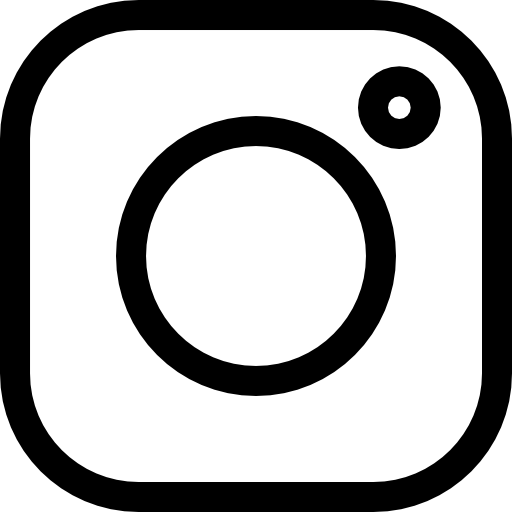
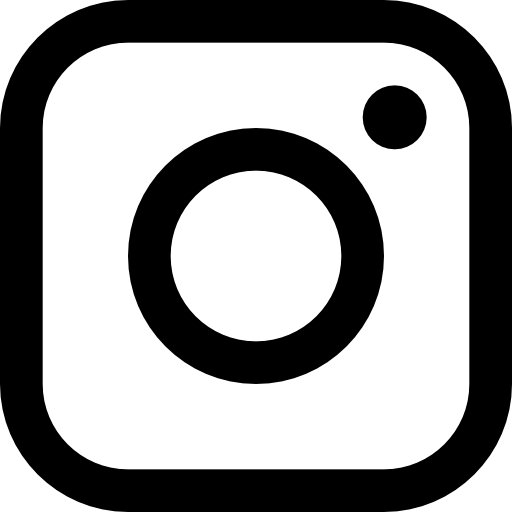
Add files via upload

diff --git a/flutter_service_worker.js b/flutter_service_worker.js
@@ -3,17 +3,20 @@ const MANIFEST = 'flutter-app-manifest';
 const TEMP = 'flutter-temp-cache';
 const CACHE_NAME = 'flutter-app-cache';
 
-const RESOURCES = {"assets/AssetManifest.bin": "bc772093c6b49f6e0c80ae8b026bf692",
-"assets/AssetManifest.json": "4ef12a400a00e43d76b79b4d8120d74c",
+const RESOURCES = {"assets/AssetManifest.bin": "cf82ed2b813d8f7bf751307507c87cf7",
+"assets/AssetManifest.json": "54e44549c76386c4be42fdac1b8d98d2",
 "assets/assets/images/1.jpeg": "a58a61c73e51383e560b53bb2de3e70d",
 "assets/assets/images/2.jpeg": "d68cf2eb89f2316c28e8cb639acaaf06",
 "assets/assets/images/3.jpeg": "5e875b70f6ffbe118521fff00eac0cf0",
 "assets/assets/images/4.jpeg": "7ef1965c57d0cd700bee8b5ef32e3b50",
 "assets/assets/images/5.jpeg": "02350f02172bca3519ea1ec89f6d6dec",
+"assets/assets/images/bookly.png": "0804d19a148e4d17b9dc7a466033ac57",
 "assets/assets/images/github.png": "84597e4c4151e7ea8339f3c1568e82e4",
 "assets/assets/images/img1.jpeg": "5a420533f3013657501ce39efcc37802",
-"assets/assets/images/instagram.png": "1be561f0c670fe46c77e96faf94262b8",
+"assets/assets/images/instagram.png": "1ab712a197bc22a18ec4abc26fc20df3",
+"assets/assets/images/instagramproject.png": "15f73d65d7317f009ba04db4bb96f411",
 "assets/assets/images/linkedin.png": "73f7b2c95e09a9ac1c93922dd1cf6801",
+"assets/assets/images/Livescore.jpg": "f96bd6126dc691cb7224b2b1bc0c18b1",
 "assets/FontManifest.json": "dc3d03800ccca4601324923c0b1d6d57",
 "assets/fonts/MaterialIcons-Regular.otf": "dc1fdd2e17803b5d6f948ab1a120545d",
 "assets/NOTICES": "03af5d5b7bae29e2aa9320c8ef651396",
@@ -32,8 +35,8 @@ const RESOURCES = {"assets/AssetManifest.bin": "bc772093c6b49f6e0c80ae8b026bf692
 "icons/Icon-512.png": "96e752610906ba2a93c65f8abe1645f1",
 "icons/Icon-maskable-192.png": "c457ef57daa1d16f64b27b786ec2ea3c",
 "icons/Icon-maskable-512.png": "301a7604d45b3e739efc881eb04896ea",
-"index.html": "8c63544bb8c50faecf7c990e07f7ed42",
-"/": "8c63544bb8c50faecf7c990e07f7ed42",
+"index.html": "e823cb71bc04920c6a439f262de5ed0f",
+"/": "e823cb71bc04920c6a439f262de5ed0f",
 "main.dart.js": "43f8fb1760dec5f2cd3ecbe2e43da330",
 "manifest.json": "88206ac7e335d3fd86478d78058e896c",
 "version.json": "984801ddfd1ecf132a2f19493b0332e0"};

diff --git a/index.html b/index.html
@@ -35,7 +35,7 @@
 
   <script>
     // The value below is injected by flutter build, do not touch.
-    const serviceWorkerVersion = "2136792542";
+    const serviceWorkerVersion = "1723298648";
   </script>
   <!-- This script adds the flutter initialization JS code -->
   <script src="flutter.js" defer></script>
